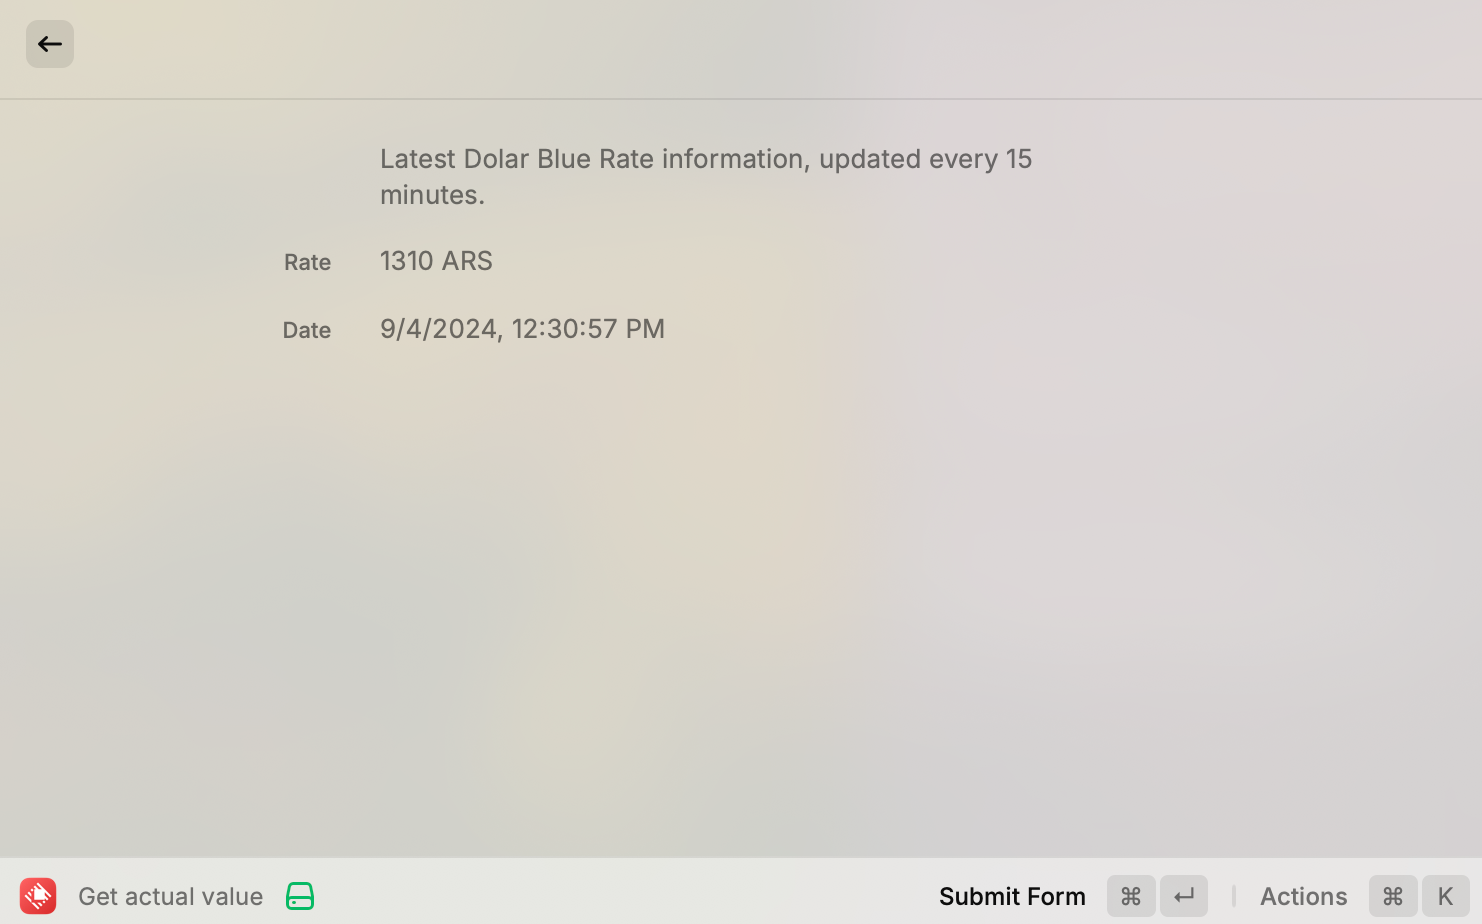
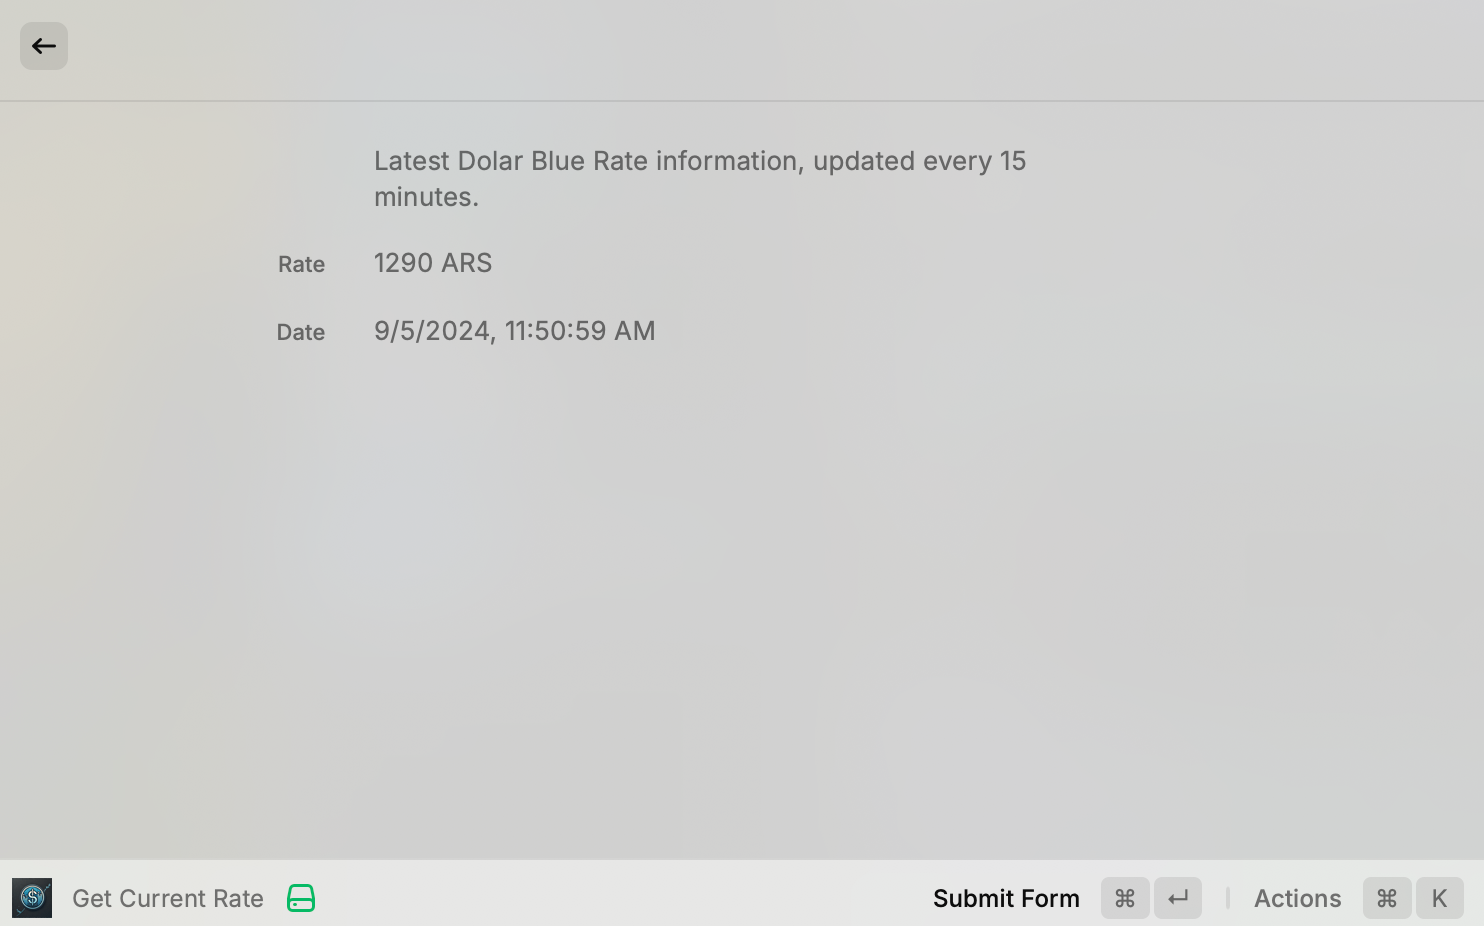
wording and refetch latest rate

diff --git a/src/get-historical-rate.tsx b/src/get-historical-rate.tsx
@@ -1,11 +1,20 @@
-import { Form, ActionPanel, Action, showToast, Toast } from "@raycast/api";
-import { useState } from "react";
+import { Form, ActionPanel, Action, showToast, Toast, getPreferenceValues } from "@raycast/api";
+import { useState, useEffect } from "react";
 import { fetchHistoricalBlueRate } from "./fetchHistoricalRate";
 import { BlueRate } from "./fetchLatestRate";
 
-export default function Command() {
+// Add this interface for the arguments
+interface Arguments {
+  year?: string;
+  month?: string;
+  day?: string;
+}
+
+export default function Command(props: { arguments: Arguments }) {
+  const { year, month, day } = props.arguments;
+  
   const today = new Date();
-  today.setHours(0, 0, 0, 0); // Set to beginning of the day
+  today.setHours(0, 0, 0, 0);
   const yesterday = new Date(today);
   yesterday.setDate(yesterday.getDate() - 1);
 
@@ -15,20 +24,34 @@ export default function Command() {
 
   const minDate = new Date("2013-09-30");
 
+  // Use useEffect to set the date from arguments
+  useEffect(() => {
+    if (year && month && day) {
+      const argDate = new Date(`${year}-${month}-${day}`);
+      if (!isNaN(argDate.getTime()) && argDate >= minDate && argDate <= today) {
+        setDate(argDate);
+        handleSubmit();
+      } else {
+        showToast({ style: Toast.Style.Failure, title: "Invalid date from arguments" });
+      }
+    }
+  }, [year, month, day]);
+
   async function handleSubmit() {
-    if (!date) {
+    const dateToUse = date;
+    if (!dateToUse) {
       showToast({ style: Toast.Style.Failure, title: "Please select a date" });
       return;
     }
 
-    if (date < minDate) {
+    if (dateToUse < minDate) {
       showToast({ style: Toast.Style.Failure, title: "Date cannot be before September 30, 2013" });
       return;
     }
 
     setIsLoading(true);
     try {
-      const formattedDate = date.toISOString().split('T')[0];
+      const formattedDate = dateToUse.toISOString().split('T')[0];
       const rate = await fetchHistoricalBlueRate(formattedDate);
       setHistoricalRate(rate);
       showToast({ style: Toast.Style.Success, title: "Historical rate fetched successfully" });
@@ -49,7 +72,7 @@ export default function Command() {
       isLoading={isLoading}
       actions={
         <ActionPanel>
-          <Action.SubmitForm onSubmit={handleSubmit} title="Fetch Rate" />
+          <Action.SubmitForm onSubmit={() => handleSubmit()} title="Fetch Rate" />
           {historicalRate && (
             <Action.CopyToClipboard
               title="Copy Rate to Clipboard"

diff --git a/src/get-current-rate.tsx b/src/get-current-rate.tsx
@@ -7,17 +7,20 @@ export default function Command() {
   const [isLoading, setIsLoading] = useState(true);
   const [error, setError] = useState<string | null>(null);
 
-  useEffect(() => {
-    async function fetchData() {
-      try {
-        const latest = await fetchLatestBlueRate();
-        setLatestRate(latest);
-        setIsLoading(false);
-      } catch (err) {
-        setError("Failed to fetch data");
-        setIsLoading(false);
-      }
+  async function fetchData(forceRefresh = false) {
+    setIsLoading(true);
+    setError(null);
+    try {
+      const latest = await fetchLatestBlueRate(forceRefresh);
+      setLatestRate(latest);
+    } catch (err) {
+      setError("Failed to fetch data");
+    } finally {
+      setIsLoading(false);
     }
+  }
+
+  useEffect(() => {
     fetchData();
   }, []);
 
@@ -28,6 +31,11 @@ export default function Command() {
         message: `${latestRate.value_sell} ARS as of ${new Date(latestRate.date).toLocaleString()}` 
       });
     }
+  }
+
+  async function handleRefresh() {
+    await fetchData(true);
+    showToast({ title: "Refreshed", message: "Latest rate fetched successfully" });
   }
 
   return (
@@ -43,6 +51,11 @@ export default function Command() {
               shortcut={{ modifiers: ["cmd"], key: "c" }}
             />
           )}
+          <Action
+            title="Refresh Rate"
+            onAction={handleRefresh}
+            shortcut={{ modifiers: ["cmd"], key: "r" }}
+          />
         </ActionPanel>
       }
     >

diff --git a/src/fetchLatestRate.ts b/src/fetchLatestRate.ts
@@ -19,13 +19,14 @@ const CACHE_EXPIRY = 15 * 60 * 1000; // 15 minutes in milliseconds
 
 const cache = new Cache();
 
-export async function fetchLatestBlueRate(): Promise<BlueRate> {
-  const cachedData = cache.get(CACHE_KEY);
-  if (cachedData) {
-    const { data, timestamp } = JSON.parse(cachedData);
-    console.log({ data, timestamp });
-    if (Date.now() - timestamp < CACHE_EXPIRY) {
-      return data;
+export async function fetchLatestBlueRate(forceRefresh = false): Promise<BlueRate> {
+  if (!forceRefresh) {
+    const cachedData = cache.get(CACHE_KEY);
+    if (cachedData) {
+      const { data, timestamp } = JSON.parse(cachedData);
+      if (Date.now() - timestamp < CACHE_EXPIRY) {
+        return data;
+      }
     }
   }
 

diff --git a/README.md b/README.md
@@ -1,9 +1,24 @@
-# Dolar Blue
+# Dollar Blue - Argentine Exchange Rate
 
-Get Argentinian dolar "blue" actual and historical price.
+This Raycast extension provides current and historical rates for Argentina's "Blue Dollar" exchange.
 
-## Reference:
-- https://developers.raycast.com/basics/getting-started
+## Features
+
+- Get the current Blue Dollar exchange rate
+- Retrieve historical Blue Dollar rates for specific dates
+
+## Data Source
+
+All exchange rate data is provided by [Bluelytics API](https://bluelytics.com.ar).
+
+## Usage
+
+1. To get the current rate, use the "Get Current Rate" command.
+2. To get a historical rate, use the "Historical Rate" command and select a date.
+
+## Feedback and Contributions
+
+If you have any feedback or would like to contribute to this extension, please [open an issue](https://github.com/yourusername/raycast-dolar-blue/issues) on our GitHub repository.
 
 ## Develop
 
@@ -13,8 +28,12 @@ npm i && npm run dev
 
 ## Commands:
 
-### Get actual price
+### Get Current Rate
 ![get actual price](./assets/get-actual-price.png)
 
-### Get historical price
-![get historical price](./assets/get-historical-price.png)
+- Keywords: `["curr", "rate", "now", "today"]`.
+
+### Get Historical Rate
+![get historical rate](./assets/get-historical-rate.png)
+
+- Keywords: `["hist", "past", "previous"]`.
